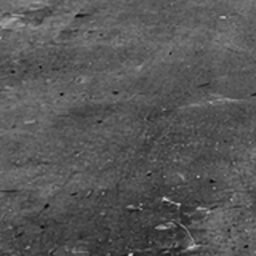
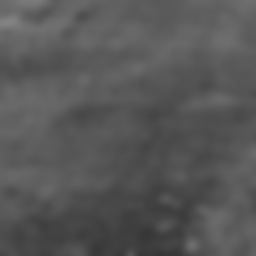
Afinar escala de profundidade e textura da pista

diff --git a/sector89-mvp.html b/sector89-mvp.html
@@ -5,18 +5,18 @@
 <script>
 (()=>{'use strict';const canvas=document.querySelector('#game'),ctx=canvas.getContext('2d'),intro=document.querySelector('#intro'),pause=document.querySelector('#pause'),start=document.querySelector('#start'),W=1280,H=720;const image=(src)=>{let i=new Image();i.src=src;return i};const roadImage=image('mvp-road.png'),asphalt=image('sector89-asphalt.png'),cockpit=image('mvp-cockpit.png'),cars=[image('car-muscle.png'),image('car-rally.png'),image('car-pickup.png')];const held=new Set();let playing=false,last=0,t=0,speed=0,lateral=0,distance=0,ammo=12,fire=0,flash=0,drift=0,damage=0,notice='',noticeUntil=0;
 const clamp=(v,a,b)=>Math.max(a,Math.min(b,v));const rand=(n)=>{let v=Math.sin(n*127.1+31.7)*43758.5453;return v-Math.floor(v)};
-function begin(){speed=0;lateral=0;distance=0;ammo=12;fire=0;flash=0;drift=0;damage=0;t=0;notice='';rivals=[{z:530,lane:-.42,car:0,aspect:.79,seed:1,offset:1},{z:910,lane:.42,car:1,aspect:1,seed:5,offset:4},{z:1320,lane:-.05,car:2,aspect:.88,seed:9,offset:7}];held.clear();playing=true;intro.hidden=true;pause.hidden=true;last=performance.now();canvas.focus();requestAnimationFrame(loop)}start.onclick=begin;
+function begin(){speed=0;lateral=0;distance=0;ammo=12;fire=0;flash=0;drift=0;damage=0;t=0;notice='';rivals=[{z:110,lane:-.55,car:0,aspect:.79,seed:1,offset:1},{z:175,lane:.58,car:1,aspect:1,seed:5,offset:4},{z:245,lane:-.05,car:2,aspect:.88,seed:9,offset:7}];held.clear();playing=true;intro.hidden=true;pause.hidden=true;last=performance.now();canvas.focus();requestAnimationFrame(loop)}start.onclick=begin;
 const accelCodes=['ArrowUp','KeyW'],brakeCodes=['ArrowDown','KeyS'],leftCodes=['ArrowLeft','KeyA'],rightCodes=['ArrowRight','KeyD'],fireCodes=['Space','KeyF'];function has(list){return list.some(k=>held.has(k))}
 window.addEventListener('keydown',e=>{if(['ArrowUp','ArrowDown','ArrowLeft','ArrowRight','Space'].includes(e.code))e.preventDefault();if(e.code==='KeyR'){if(!playing||pause.hidden)begin();return}if(e.code==='Escape'&&playing){playing=false;pause.hidden=false;held.clear();return}if(!playing){if(!intro.hidden&&['Enter','Space'].includes(e.code)){begin();return}if(!pause.hidden&&(['ArrowUp','ArrowDown','ArrowLeft','ArrowRight','Space','KeyW','KeyA','KeyS','KeyD'].includes(e.code))){playing=true;pause.hidden=true;last=performance.now();requestAnimationFrame(loop)}}if(fireCodes.includes(e.code)&&!held.has(e.code)&&playing){shoot()}held.add(e.code)});window.addEventListener('keyup',e=>held.delete(e.code));window.addEventListener('blur',()=>{if(playing){playing=false;pause.hidden=false;held.clear()}});
 function shoot(){if(ammo<=0){notice='MUNIÇÕES ESGOTADAS';noticeUntil=t+1.2;return}ammo--;flash=.16;fire=.38;notice='';}
 function curve(z){return Math.sin(z*.00042)*.82+Math.sin(z*.00118)*.16}
 function update(dt){t+=dt;let accelerating=has(accelCodes),braking=has(brakeCodes);speed=clamp(speed+(accelerating?86:-24)*dt-(braking?155*dt:0),0,228);let steer=(has(rightCodes)?1:0)-(has(leftCodes)?1:0);drift+=(steer*1.65*dt)-(drift*2.9*dt);lateral=clamp(lateral+drift*dt,-1.1,1.1);distance+=speed*dt*(1000/3600);flash=Math.max(0,flash-dt);fire=Math.max(0,fire-dt);if(Math.abs(lateral)>.83&&speed>75){damage=Math.min(100,damage+9*dt);speed=Math.max(36,speed-34*dt)}else damage=Math.max(0,damage-3*dt);if(notice&&t>noticeUntil)notice=''}
 let horizon=245;
-function projection(rel){return 620/(Math.max(0,rel)+620)}
+function projection(rel){return 35/(Math.max(0,rel)+35)}
 function perspective(y){return clamp((y-horizon)/(H-horizon),0,1)}
 function halfRoadAtDepth(rel){return 14+620*projection(rel)}
 function trackCenterAtDepth(rel){let p=projection(rel);return W/2-lateral*360*p+(curve(distance+Math.max(0,rel))-curve(distance))*420*p}
-function depthAtY(y){let p=clamp(perspective(y),.018,.985);return 620*(1-p)/p}
+function depthAtY(y){let p=clamp(perspective(y),.018,.985);return 35*(1-p)/p}
 function halfRoad(y){return halfRoadAtDepth(depthAtY(y))}
 function trackCenter(y){return trackCenterAtDepth(depthAtY(y))}
 function drawTerrain(){
@@ -40,22 +40,22 @@ function drawBackground(){
   const step=3;for(let y=horizon;y<H;y+=step){let p=perspective(y),rel=depthAtY(y),cx=trackCenterAtDepth(rel),half=halfRoadAtDepth(rel),sy=clamp(225+p*430,225,715),sh=Math.min(step,H-y),srcHalf=clamp(28+p*470,28,628),sx=clamp(640-srcHalf,0,1280-srcHalf*2);
     ctx.fillStyle=(Math.floor((distance+rel)/34)%2)?'#76766f':'#95958c';ctx.fillRect(cx-half-10-p*9,y,2*(half+10+p*9),sh);
     ctx.fillStyle=(Math.floor((distance+rel)/34)%2)?'#c5c4b7':'#73746f';ctx.fillRect(cx-half-4-p*4,y,2*(half+4+p*4),sh);
-    if(asphalt.complete&&asphalt.naturalWidth){let texY=Math.floor((distance+rel)*1.35)%asphalt.naturalHeight;ctx.drawImage(asphalt,0,texY,asphalt.naturalWidth,1,cx-half,y,half*2,sh)}else{ctx.fillStyle='#454747';ctx.fillRect(cx-half,y,half*2,sh)}
+    if(asphalt.complete&&asphalt.naturalWidth){let texY=Math.floor((distance+rel)*.75)%asphalt.naturalHeight;ctx.drawImage(asphalt,0,texY,asphalt.naturalWidth,1,cx-half,y,half*2,sh)}else{ctx.fillStyle='#454747';ctx.fillRect(cx-half,y,half*2,sh)}
     // shoulder seam lines, slightly brighter than the asphalt
     ctx.fillStyle='rgba(211,207,191,.8)';ctx.fillRect(cx-half+1,y,Math.max(1,p*2),sh);ctx.fillRect(cx+half-Math.max(1,p*2),y,Math.max(1,p*2),sh);
   }
   // lane dashes are placed in world distance, then projected onto the same curved track
-  for(let rel=12;rel<1850;rel+=13){if(Math.floor((distance+rel)/26)%2)continue;let p=projection(rel),y=horizon+p*(H-horizon),y2=horizon+projection(Math.max(0,rel-8))*(H-horizon);if(y>H||y2>H)continue;let half=halfRoadAtDepth(rel),cx=trackCenterAtDepth(rel),w=Math.max(1,1+p*4);ctx.fillStyle='rgba(218,215,202,.8)';for(let lane of [-1,1]){let xx=cx+lane*half*.34;ctx.beginPath();ctx.moveTo(xx-w,y);ctx.lineTo(xx+w,y);ctx.lineTo(xx+w*1.2,y2);ctx.lineTo(xx-w*1.2,y2);ctx.closePath();ctx.fill();}}
+  for(let rel=12;rel<700;rel+=5){if(Math.floor((distance+rel)/16)%2)continue;let p=projection(rel),y=horizon+p*(H-horizon),y2=horizon+projection(Math.max(0,rel-3))*(H-horizon);if(y>H||y2>H)continue;let half=halfRoadAtDepth(rel),cx=trackCenterAtDepth(rel),w=Math.max(1,1+p*4);ctx.fillStyle='rgba(218,215,202,.8)';for(let lane of [-1,1]){let xx=cx+lane*half*.34;ctx.beginPath();ctx.moveTo(xx-w,y);ctx.lineTo(xx+w,y);ctx.lineTo(xx+w*1.2,y2);ctx.lineTo(xx-w*1.2,y2);ctx.closePath();ctx.fill();}}
   // Guard rails and supports are projected from track-space, along both road edges.
-  for(let side of [-1,1]){let pts=[];for(let rel=0;rel<=1550;rel+=20){let p=projection(rel),y=horizon+p*(H-horizon),edge=trackCenterAtDepth(rel)+side*(halfRoadAtDepth(rel)+8+p*8);pts.push({x:edge,y,p,rel});}
+  for(let side of [-1,1]){let pts=[];for(let rel=0;rel<=700;rel+=10){let p=projection(rel),y=horizon+p*(H-horizon),edge=trackCenterAtDepth(rel)+side*(halfRoadAtDepth(rel)+8+p*8);pts.push({x:edge,y,p,rel});}
     ctx.lineCap='round';ctx.strokeStyle='rgba(42,45,46,.95)';ctx.lineWidth=7;ctx.beginPath();pts.forEach((pt,i)=>i?ctx.lineTo(pt.x,pt.y-8-pt.p*26):ctx.moveTo(pt.x,pt.y-8-pt.p*26));ctx.stroke();ctx.strokeStyle='#92928a';ctx.lineWidth=2.5;ctx.beginPath();pts.forEach((pt,i)=>i?ctx.lineTo(pt.x,pt.y-11-pt.p*26):ctx.moveTo(pt.x,pt.y-11-pt.p*26));ctx.stroke();
-    for(let rel=0;rel<1250;rel+=42){let p=projection(rel),y=horizon+p*(H-horizon),edge=trackCenterAtDepth(rel)+side*(halfRoadAtDepth(rel)+8+p*8),postH=5+p*32;if(y>H)continue;ctx.fillStyle='#343839';ctx.fillRect(edge-1-p,y-postH,2+2*p,postH);ctx.fillStyle='#b2afa2';ctx.fillRect(edge-1-p,y-postH,2+2*p,Math.max(1,p*2));}
+    for(let rel=0;rel<700;rel+=21){let p=projection(rel),y=horizon+p*(H-horizon),edge=trackCenterAtDepth(rel)+side*(halfRoadAtDepth(rel)+8+p*8),postH=5+p*32;if(y>H)continue;ctx.fillStyle='#343839';ctx.fillRect(edge-1-p,y-postH,2+2*p,postH);ctx.fillStyle='#b2afa2';ctx.fillRect(edge-1-p,y-postH,2+2*p,Math.max(1,p*2));}
   }
   // Motion/turn parallax is tied to speed and actual track curvature, not image slicing.
   let v=clamp(speed/228,0,1);if(v>.12){ctx.save();ctx.globalAlpha=.12*v;ctx.strokeStyle='#d3d1c8';for(let i=0;i<28;i++){let y=320+((i*31+distance*1.1)%390),p=perspective(y),side=i%2?1:-1,xx=trackCenter(y)+side*(halfRoad(y)+16+rand(i+Math.floor(distance/35))*85);ctx.lineWidth=1+p*2;ctx.beginPath();ctx.moveTo(xx,y);ctx.lineTo(xx+side*(8+v*25)*p,y+13+v*18);ctx.stroke()}ctx.restore();}
 }
-function drawRival(o){let rel=o.z-distance;if(rel<-28){o.z=distance+1900+o.offset*55;rel=o.z-distance;o.lane=(rand(o.seed+Math.floor(distance/1100))-.5)*1.25;}if(rel>2400)return;let p=projection(rel),y=horizon+p*(H-horizon);if(y>H+40)return;let cx=trackCenterAtDepth(rel)+o.lane*halfRoadAtDepth(rel)*.48+Math.sin(t*.44+o.seed)*p*4;let width=15+p*185,hei=width*(o.aspect||.8),img=cars[o.car];ctx.save();ctx.globalAlpha=clamp(.82+p*.18,0,1);ctx.fillStyle='rgba(0,0,0,.42)';ctx.beginPath();ctx.ellipse(cx,y-1,width*.47,Math.max(2,width*.105),0,0,Math.PI*2);ctx.fill();if(img.complete&&img.naturalWidth)ctx.drawImage(img,cx-width/2,y-hei,width,hei);else{ctx.fillStyle='#393a39';ctx.beginPath();ctx.moveTo(cx-width/2,y);ctx.lineTo(cx-width*.42,y-hei*.58);ctx.lineTo(cx-width*.25,y-hei*.86);ctx.lineTo(cx+width*.25,y-hei*.86);ctx.lineTo(cx+width*.42,y-hei*.58);ctx.lineTo(cx+width/2,y);ctx.closePath();ctx.fill()}ctx.restore();o.screenX=cx;o.screenY=y;o.screenW=width}
-let rivals=[{z:distance+530,lane:-.42,car:0,aspect:.79,seed:1,offset:1},{z:distance+910,lane:.42,car:1,aspect:.966,seed:5,offset:4},{z:distance+1320,lane:-.05,car:2,aspect:.874,seed:9,offset:7}];
+function drawRival(o){let rel=o.z-distance;if(rel<-28){o.z=distance+400+o.offset*55;rel=o.z-distance;o.lane=(rand(o.seed+Math.floor(distance/1100))-.5)*1.25;}if(rel>700)return;let p=projection(rel),y=horizon+p*(H-horizon);if(y>H+40)return;let cx=trackCenterAtDepth(rel)+o.lane*halfRoadAtDepth(rel)*.48+Math.sin(t*.44+o.seed)*p*4;let width=15+p*185,hei=width*(o.aspect||.8),img=cars[o.car];ctx.save();ctx.globalAlpha=clamp(.82+p*.18,0,1);ctx.fillStyle='rgba(0,0,0,.42)';ctx.beginPath();ctx.ellipse(cx,y-1,width*.47,Math.max(2,width*.105),0,0,Math.PI*2);ctx.fill();if(img.complete&&img.naturalWidth)ctx.drawImage(img,cx-width/2,y-hei,width,hei);else{ctx.fillStyle='#393a39';ctx.beginPath();ctx.moveTo(cx-width/2,y);ctx.lineTo(cx-width*.42,y-hei*.58);ctx.lineTo(cx-width*.25,y-hei*.86);ctx.lineTo(cx+width*.25,y-hei*.86);ctx.lineTo(cx+width*.42,y-hei*.58);ctx.lineTo(cx+width/2,y);ctx.closePath();ctx.fill()}ctx.restore();o.screenX=cx;o.screenY=y;o.screenW=width}
+let rivals=[{z:distance+110,lane:-.55,car:0,aspect:.79,seed:1,offset:1},{z:distance+175,lane:.58,car:1,aspect:.966,seed:5,offset:4},{z:distance+245,lane:-.05,car:2,aspect:.874,seed:9,offset:7}];
 function drawCockpit(){// transparent, detailed cockpit image layered over the road
 if(cockpit.complete&&cockpit.naturalWidth){ctx.drawImage(cockpit,0,H-318,W,318)}else{let g=ctx.createLinearGradient(0,430,0,H);g.addColorStop(0,'#6b6c67');g.addColorStop(.12,'#252a2b');g.addColorStop(1,'#090c0e');ctx.fillStyle=g;ctx.fillRect(0,436,W,H-436)}
 // small monochrome overlays and restrained luminous telemetry
@@ -70,7 +70,7 @@ if(notice){ctx.fillStyle='#e1d074';ctx.font='bold 18px monospace';ctx.textAlign=
 ctx.textAlign='center';ctx.fillStyle='rgba(5,9,11,.55)';ctx.fillRect(550,28,180,32);ctx.fillStyle='#b4b5ac';ctx.font='11px monospace';ctx.fillText('DISTANCE   '+String(Math.floor(distance)).padStart(6,'0')+' m',640,49);
 }
 function render(){drawBackground();rivals.sort((a,b)=>b.z-a.z).forEach(drawRival);drawCockpit()}
-function loop(now){if(!playing)return;let dt=Math.min(.04,(now-last)/1000||.016);last=now;update(dt);render();requestAnimationFrame(loop)}function idle(){if(!playing){render();requestAnimationFrame(idle)}}
+function loop(now){if(!playing)return;let dt=clamp((now-last)/1000,0,.04);last=now;update(dt);render();requestAnimationFrame(loop)}function idle(){if(!playing){render();requestAnimationFrame(idle)}}
 let loads=[roadImage,asphalt,cockpit,...cars];let n=0;loads.forEach(im=>{im.onload=()=>{if(++n===loads.length){render();requestAnimationFrame(idle)}};im.onerror=()=>{if(++n===loads.length){render();requestAnimationFrame(idle)}}});setTimeout(()=>{if(!n){render();requestAnimationFrame(idle)}},1200);
 })();
 </script></body></html>
